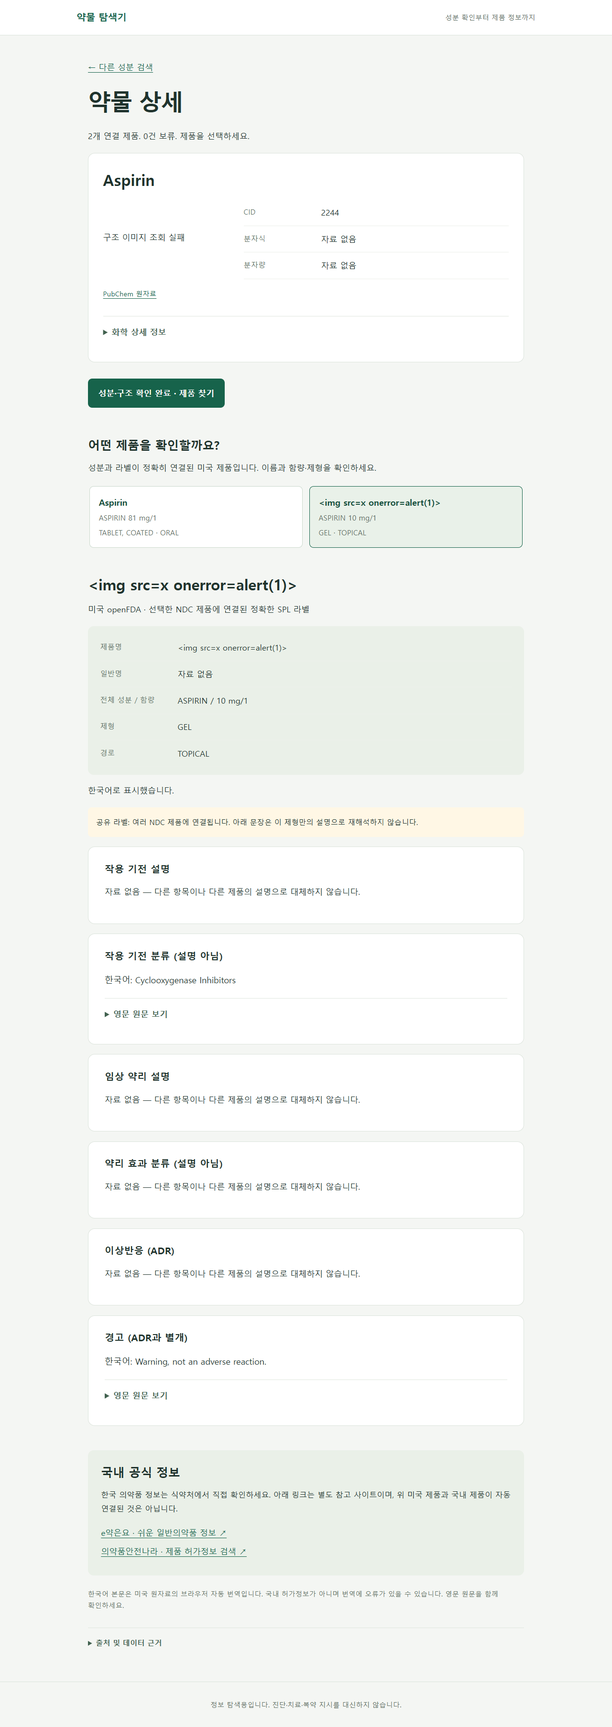
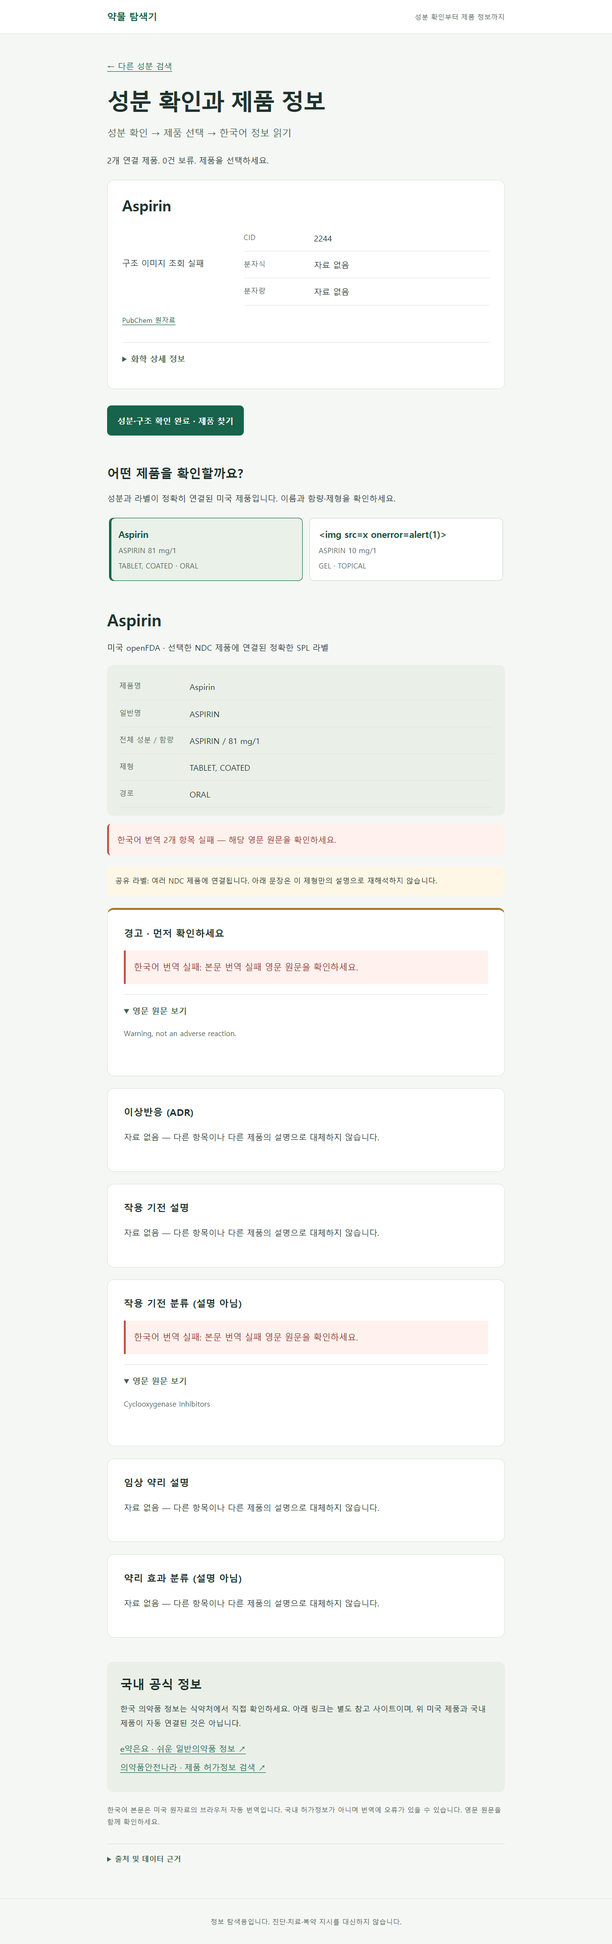
Improve Korean reading flow and automatic translation failure handling

diff --git a/assets/styles.css b/assets/styles.css
@@ -1,1 +1,9 @@
-:root{font-family:system-ui,-apple-system,"Segoe UI",sans-serif;color:#20332d;background:#f4f6f3;font-size:17px;line-height:1.8;font-synthesis:none}*{box-sizing:border-box}body{margin:0}header{display:flex;justify-content:space-between;align-items:center;gap:1rem;padding:1.1rem max(24px,calc((100vw - 960px)/2));border-bottom:1px solid #dbe3db;background:#fff}header span{font-size:.85rem;color:#5e6e65}.brand{font-weight:800;font-size:1.15rem;text-decoration:none}main{max-width:960px;margin:3rem auto;padding:0 24px}h1{font-size:clamp(2rem,4vw,2.8rem);line-height:1.4;letter-spacing:-.04em;margin:1.4rem 0}h2{font-size:1.45rem;line-height:1.5;margin:0 0 .8rem}h3{font-size:1.2rem;line-height:1.5;margin:0 0 1rem}p{margin:.7rem 0 1.2rem;word-break:keep-all;overflow-wrap:anywhere}a{color:#17634b;text-underline-offset:4px}button,.button{background:#17634b;color:#fff;border:1px solid transparent;border-radius:9px;padding:.85rem 1.2rem;cursor:pointer;font:inherit;font-weight:600;display:inline-block;text-decoration:none;margin:.5rem .5rem .5rem 0}button:hover,.button:hover{background:#104a38}button:disabled{opacity:.6;cursor:wait}input{font:inherit;padding:.95rem;border:1px solid #8da598;border-radius:9px;min-width:0;width:100%;background:#fff}label{display:block;font-weight:600;margin-bottom:.5rem}.input-row{display:flex;gap:.6rem;align-items:center}.input-row input{flex:1}.input-row button{white-space:nowrap}.card{background:#fff;border:1px solid #dce4dc;border-radius:14px;padding:1.8rem;margin:1.2rem 0}.field{display:grid;grid-template-columns:145px 1fr;border-bottom:1px solid #edf0eb;padding:.7rem 0;gap:1rem}dt{color:#647469;font-size:.9rem}dd{margin:0;overflow-wrap:anywhere;font-weight:500}img{object-fit:contain;background:#fff;max-width:100%}#compound>.card,#results>.card{display:grid;grid-template-columns:260px 1fr;gap:1rem 2rem;align-items:center}#compound>.card>h2,#results>.card>h2{grid-column:1/-1;font-size:1.9rem;margin:0}#compound>.card>details,#results>.card>.button{grid-column:1/-1}#compound>.card>img,#results>.card>img{width:240px;height:190px}#compound>.card>dl,#results>.card>dl{margin:0}#compound>.card>a,#results>.card>a:not(.button){font-size:.85rem}footer{border-top:1px solid #dbe3db;padding:2rem 24px;color:#637066;font-size:.85rem;text-align:center}.error{color:#8e3028;background:#fff1ed;padding:1rem;border-left:4px solid #bd5543}.notice{background:#fff7e5;padding:1rem;border-radius:8px;font-size:.9rem}.source-text,.translation-text{white-space:pre-wrap;overflow-wrap:anywhere;line-height:1.95}.translation-text{font-size:1.05rem;color:#20332d}.source-text{color:#58665e;font-size:.9rem}.product-section{margin:3rem 0}#products{display:grid;grid-template-columns:1fr 1fr;gap:.8rem;max-height:480px;overflow:auto;padding:3px}.product{display:flex;flex-direction:column;gap:.35rem;width:100%;text-align:left;background:white;color:#20332d;border:1px solid #cbd9cd;margin:0;padding:1.1rem;font-weight:400;font-size:.9rem;line-height:1.6}.product strong{font-size:1.05rem;color:#174e3b}.product span{display:block;color:#5e6e65}.product:hover,.product[aria-pressed=true]{background:#e9f1e9;border-color:#17634b}.product:focus-visible{outline-offset:-3px}#label{margin:3rem 0}#label>h2{font-size:1.8rem}#label>dl{background:#eaf0e8;border-radius:12px;padding:1rem 1.5rem}#label article{padding:1.8rem 2rem}details{border-top:1px solid #e0e7df;padding:1rem 0;margin-top:1rem}summary{cursor:pointer;font-weight:600;color:#41614f}details[open]>summary{margin-bottom:1rem}.reference-card{background:#eaf0e8;padding:1.6rem;border-radius:12px;margin:3rem 0 1.5rem}.reference-card p{font-size:.95rem}.reference-card a{display:block;margin:.5rem 0}.translation-note{font-size:.85rem;color:#657368;line-height:1.7}.evidence{margin-top:2rem;font-size:.9rem}.evidence pre{font-size:.8rem;white-space:pre-wrap;overflow-wrap:anywhere;background:#fff;padding:1rem}.evidence a{display:block;margin:.4rem 0}.evidence .field{grid-template-columns:170px 1fr}small{color:#617267}section{margin-bottom:1.5rem}[hidden]{display:none!important}:focus-visible{outline:3px solid #aa741f;outline-offset:3px}@media(max-width:650px){header span{display:none}main{margin:1.5rem auto;padding:0 18px}.input-row{display:block}#products{grid-template-columns:1fr;max-height:420px}#compound>.card,#results>.card{grid-template-columns:1fr;gap:.8rem}.field,.evidence .field{grid-template-columns:1fr;gap:.1rem}.card,#label article{padding:1.3rem}h1{font-size:2rem}#compound>.card>img,#results>.card>img{margin:auto}}
+:root{font-family:system-ui,-apple-system,"Segoe UI",sans-serif;color:#20332d;background:#f5f7f5;font-size:17px;line-height:1.85;font-synthesis:none}
+*{box-sizing:border-box}body{margin:0}main{max-width:880px;margin:3rem auto;padding:0 24px}header{display:flex;justify-content:space-between;align-items:center;gap:1rem;padding:1rem max(24px,calc((100vw - 832px)/2));background:#fff;border-bottom:1px solid #dbe3db}header span{font-size:.85rem;color:#52665a}.brand{font-size:1.15rem;font-weight:800;text-decoration:none}
+h1{font-size:clamp(2rem,4vw,2.8rem);line-height:1.35;letter-spacing:-.04em;margin:1.5rem 0 1rem}h2{font-size:1.5rem;line-height:1.5;margin:0 0 1rem}h3{font-size:1.2rem;line-height:1.5;margin:0 0 1.2rem}p{margin:.7rem 0 1.3rem;word-break:keep-all;overflow-wrap:anywhere}.intro{font-size:1.15rem;color:#42614f}a{color:#17634b;text-underline-offset:4px}section{margin-bottom:1.5rem}
+button,.button{display:inline-block;background:#17634b;color:#fff;border:1px solid transparent;border-radius:9px;padding:.85rem 1.2rem;cursor:pointer;font:inherit;font-weight:600;text-decoration:none;margin:.5rem .5rem .5rem 0}button:hover,.button:hover{background:#104a38}button:disabled{opacity:.6;cursor:wait}input{font:inherit;padding:.95rem;border:1px solid #8da598;border-radius:9px;min-width:0;width:100%;background:#fff}label{display:block;font-weight:600;margin-bottom:.5rem}.input-row{display:flex;gap:.6rem;align-items:center}.input-row input{flex:1}.input-row button{white-space:nowrap}
+.card{background:#fff;border:1px solid #dce4dc;border-radius:14px;padding:1.8rem;margin:1.5rem 0}.field{display:grid;grid-template-columns:130px minmax(0,1fr);border-bottom:1px solid #e0e7df;padding:.7rem 0;gap:1rem}dt{color:#52665a;font-size:.9rem}dd{margin:0;overflow-wrap:anywhere;font-weight:500}img{object-fit:contain;background:#fff;max-width:100%}#compound>.card,#results>.card{display:grid;grid-template-columns:220px minmax(0,1fr);gap:1rem 2rem;align-items:center}#compound>.card>h2,#results>.card>h2{grid-column:1/-1;font-size:1.8rem;margin:0;overflow-wrap:anywhere}#compound>.card>details,#results>.card>.button{grid-column:1/-1}#compound>.card>img,#results>.card>img{width:220px;height:170px}#compound>.card>dl,#results>.card>dl{margin:0}#compound>.card>a,#results>.card>a:not(.button){font-size:.85rem}
+.product-section{margin:3rem 0}#products{display:grid;grid-template-columns:1fr 1fr;gap:.8rem;max-height:360px;overflow:auto;padding:4px;overscroll-behavior:contain}.product{display:flex;flex-direction:column;gap:.4rem;width:100%;text-align:left;background:#fff;color:#20332d;border:1px solid #cbd9cd;margin:0;padding:1.1rem;font-weight:400;font-size:.9rem;line-height:1.6;overflow-wrap:anywhere}.product strong{font-size:1.1rem;color:#174e3b}.product span{display:block;color:#52665a}.product:hover,.product[aria-pressed=true]{background:#e9f1e9;border-color:#17634b}.product[aria-pressed=true]{box-shadow:inset 4px 0 #17634b}.product:focus-visible{outline-offset:-3px}
+#label{margin:3rem 0;scroll-margin-top:1rem}#label:empty{display:none}#label>h2{font-size:2rem;overflow-wrap:anywhere}#label>dl{background:#eaf0e8;border-radius:12px;padding:1rem 1.5rem}#label article{padding:2rem;max-width:100%}#label article:first-of-type{border-top:4px solid #aa741f}.translation-state{padding:.8rem 1rem;background:#eaf0e8;border-radius:8px}.source-text,.translation-text{white-space:pre-wrap;overflow-wrap:anywhere;line-height:2}.translation-text{font-size:1.05rem}.source-text{color:#52665a;font-size:.9rem}.error{color:#8e3028;background:#fff1ed;padding:1rem;border-left:4px solid #bd5543}.notice{background:#fff7e5;padding:1rem;border-radius:8px;font-size:.9rem}
+details{border-top:1px solid #dbe3db;padding:1rem 0;margin-top:1rem}summary{cursor:pointer;font-weight:600;color:#41614f}details[open]>summary{margin-bottom:1rem}.reference-card{background:#eaf0e8;padding:1.6rem;border-radius:12px;margin:3rem 0 1.5rem}.reference-card p{font-size:.95rem}.reference-card a{display:block;margin:.5rem 0}.translation-note{font-size:.85rem;color:#52665a;line-height:1.7}.evidence{margin-top:2rem;font-size:.9rem}.evidence pre{font-size:.8rem;white-space:pre-wrap;overflow-wrap:anywhere;background:#fff;padding:1rem}.evidence a{display:block;margin:.4rem 0}.evidence .field{grid-template-columns:170px minmax(0,1fr)}small{color:#52665a}footer{border-top:1px solid #dbe3db;padding:2rem 24px;color:#52665a;font-size:.85rem;text-align:center}[hidden]{display:none!important}:focus-visible{outline:3px solid #aa741f;outline-offset:3px}
+@media(max-width:650px){header span{display:none}main{margin:1.5rem auto;padding:0 18px}.input-row{display:block}#products{grid-template-columns:1fr;max-height:320px}#compound>.card,#results>.card{grid-template-columns:minmax(0,1fr);gap:.8rem}.field,.evidence .field{grid-template-columns:minmax(0,1fr);gap:.1rem}.card,#label article{padding:1.3rem}h1,#label>h2{font-size:1.9rem}#compound>.card>img,#results>.card>img{margin:auto}.reference-card{padding:1.3rem}}

diff --git a/tests/auto-browser.js b/tests/auto-browser.js
@@ -5,15 +5,89 @@ import {server} from '../tools/serve.js';
 await new Promise(r=>server.listening?r():server.once('listening',r));
 const fixture=JSON.parse(await readFile('tests/fixtures/labels.json'));
 const unii=JSON.parse(await readFile('docs/evidence/api-browser.json')).results.find(x=>x.url.includes('pug_view')).body;
-const b=await chromium.launch({channel:'chrome'});const p=await b.newPage();const report={schemaVersion:1,kind:'browser-automation',steps:[]};
-await p.addInitScript(()=>{window.modelCreates=0;window.activation=[];window.failModel=false;window.Translator={create:()=>{window.modelCreates++;window.activation.push(navigator.userActivation.isActive);if(window.failModel)return Promise.reject(new Error('모델 다운로드 실패'));return Promise.resolve({translate:async text=>{await new Promise(r=>setTimeout(r,180));return '한국어: '+text;}});}};});
+const b=await chromium.launch({channel:'chrome'});
+const p=await b.newPage();
+const report={schemaVersion:1,kind:'browser-automation',observedAt:new Date().toISOString(),steps:[]};
+await p.addInitScript(()=>{
+ window.modelCreates=0;window.activation=[];window.failModel=false;window.failText=false;window.calls=[];
+ window.Translator={create:()=>{
+  window.modelCreates++;window.activation.push(navigator.userActivation.isActive);
+  if(window.failModel)return Promise.reject(new Error('모델 다운로드 실패'));
+  return new Promise(resolve=>setTimeout(()=>resolve({translate:async text=>{
+   window.calls.push(text);
+   const fail=window.failText;
+   await new Promise(r=>setTimeout(r,180));
+   if(fail)throw new Error('본문 번역 실패');
+   return '한국어: '+text;
+  }}),300));
+ }};
+});
 await p.route('https://pubchem.ncbi.nlm.nih.gov/**',r=>r.fulfill(r.request().url().includes('pug_view')?{json:unii}:r.request().url().endsWith('/PNG')?{status:404,body:''}:{json:{PropertyTable:{Properties:[{CID:2244,Title:'Aspirin'}]}}}));
-await p.route('https://api.fda.gov/**',r=>{const u=new URL(r.request().url());const records=u.pathname.includes('label')?fixture.labels:fixture.ndcs.filter(n=>u.searchParams.get('search').includes(n.product_ndc));return r.fulfill({json:{meta:{results:{total:records.length}},results:records}});});
-async function open(){await p.goto('http://127.0.0.1:4173/detail.html?cid=2244');await p.locator('#confirm-compound').waitFor();await p.locator('#confirm-compound').click();await p.locator('#products button').first().waitFor();}
+await p.route('https://api.fda.gov/**',r=>{
+ const u=new URL(r.request().url());
+ const records=u.pathname.includes('label')?fixture.labels:fixture.ndcs.filter(n=>u.searchParams.get('search').includes(n.product_ndc));
+ return r.fulfill({json:{meta:{results:{total:records.length}},results:records}});
+});
+async function open(){
+ await p.goto('http://127.0.0.1:4173/detail.html?cid=2244');
+ await p.locator('#confirm-compound').waitFor();await p.locator('#confirm-compound').click();
+ await p.locator('#products button').first().waitFor();
+}
+const completed=()=>p.waitForFunction(()=>document.querySelector('.translation-state').textContent==='한국어로 표시했습니다.');
 try{
- await open();await p.locator('#products button').first().click();await p.locator('#products button').nth(1).click();await p.waitForFunction(()=>document.querySelector('.translation-state').textContent==='한국어로 표시했습니다.');
- assert.equal(await p.evaluate(()=>window.modelCreates),1);assert.deepEqual(await p.evaluate(()=>window.activation),[true]);assert.equal(await p.locator('#label button').count(),0);assert.match(await p.locator('#label').innerText(),/GEL/);assert.equal(await p.locator('#label details[open]').count(),0);assert.equal(await p.locator('#data-evidence').getAttribute('open'),null);assert(!await p.locator('#products').innerText().then(x=>x.includes(fixture.labels[0].id)));report.steps.push({action:'Product gesture automatically starts shared model with activation; rapid switch keeps B; originals and provenance collapsed',verdict:'passed'});
- await open();await p.evaluate(()=>window.failModel=true);await p.locator('#products button').first().click();await p.waitForFunction(()=>document.querySelector('.translation-state').classList.contains('error'));assert.match(await p.locator('.translation-state').innerText(),/다운로드 실패/);await p.locator('#label details').first().locator('summary').click();assert(await p.locator('#label .source-text').first().isVisible());report.steps.push({action:'Automatic download failure explicit with usable original text',verdict:'passed'});
- await p.evaluate(()=>window.failModel=false);await p.locator('#products button').nth(1).click();await p.waitForFunction(()=>document.querySelector('.translation-state').textContent==='한국어로 표시했습니다.');assert.equal(await p.evaluate(()=>window.modelCreates),2);report.steps.push({action:'Subsequent product gesture retries rejected model successfully',verdict:'passed'});
+ await open();
+ await p.locator('#products button').first().click();
+ await p.locator('#products button').nth(1).click();
+ await completed();
+ assert.equal(await p.evaluate(()=>window.modelCreates),1);
+ assert.deepEqual(await p.evaluate(()=>window.activation),[true]);
+ assert.equal(await p.locator('#label button').count(),0);
+ assert.match(await p.locator('#label').innerText(),/GEL/);
+ assert.equal(await p.locator('#products [aria-pressed=true]').count(),1);
+ assert.equal(await p.locator('#products button').nth(1).getAttribute('aria-pressed'),'true');
+ assert.equal(await p.locator('#label').getAttribute('aria-busy'),'false');
+ assert.equal(await p.locator('#label details[open]').count(),0);
+ assert.equal(await p.locator('#data-evidence').getAttribute('open'),null);
+ assert.equal(await p.locator('main > :last-child').getAttribute('id'),'data-evidence');
+ assert.match(await p.locator('#label article h3').first().innerText(),/경고/);
+ assert(!await p.locator('#products').innerText().then(x=>x.includes(fixture.labels[0].id)));
+ assert.equal(await p.locator('#label .translation-text').count(),await p.evaluate(()=>window.calls.length));
+ report.steps.push({action:'Pending model shared during rapid switch; activation true; all present sections translate; selected state and bottom evidence',verdict:'passed'});
+ // Switch after translation has started, not only while model creation is pending.
+ await open();await p.locator('#products button').first().click();
+ await p.waitForFunction(()=>window.calls.length>0);
+ await p.locator('#products button').nth(1).click();await completed();
+ assert.match(await p.locator('#label').innerText(),/GEL/);
+ assert.equal(await p.locator('#label .translation-text.error').count(),0);
+ report.steps.push({action:'In-flight old translation cannot replace newly selected product',verdict:'passed'});
+ await open();await p.evaluate(()=>window.failText=true);
+ await p.locator('#products button').first().click();
+ await p.waitForFunction(()=>window.calls.length>0);
+ await p.evaluate(()=>window.failText=false);
+ await p.locator('#products button').nth(1).click();await completed();
+ assert.equal(await p.locator('#label .error').count(),0);
+ assert.equal(await p.locator('#label details[open]').count(),0);
+ assert.match(await p.locator('#label').innerText(),/GEL/);
+ report.steps.push({action:'Stale rejected translation cannot mark new product failed or expand its originals',verdict:'passed'});
+ await open();await p.evaluate(()=>window.failModel=true);
+ await p.locator('#products button').first().click();
+ await p.waitForFunction(()=>document.querySelector('.translation-state').classList.contains('error'));
+ assert.match(await p.locator('.translation-state').innerText(),/다운로드 실패/);
+ assert(await p.locator('#label .source-text').first().isVisible());
+ assert.equal(await p.locator('#label').getAttribute('aria-busy'),'false');
+ report.steps.push({action:'Download failure explicitly shown and original automatically expanded',verdict:'passed'});
+ await p.evaluate(()=>window.failModel=false);
+ await p.locator('#products button').nth(1).click();await completed();
+ assert.equal(await p.evaluate(()=>window.modelCreates),2);
+ report.steps.push({action:'Next product gesture retries rejected model',verdict:'passed'});
+ await open();await p.evaluate(()=>window.failText=true);
+ await p.locator('#products button').first().click();
+ await p.waitForFunction(()=>document.querySelector('#label').getAttribute('aria-busy')==='false');
+ assert.match(await p.locator('.translation-state').innerText(),/항목 실패/);
+ assert.equal(await p.locator('#label .translation-text.error').count(),await p.locator('#label .source-text').count());
+ assert(await p.locator('#label .source-text').first().isVisible());
+ report.steps.push({action:'Per-section translation failures never claim success and expose original',verdict:'passed'});
  await p.screenshot({path:'docs/evidence/auto-browser.png',fullPage:true});report.status='passed';
-}catch(e){report.status='failed';report.error=e.stack;process.exitCode=1;}await writeFile('docs/evidence/auto-browser.json',JSON.stringify(report,null,2));console.log(report);await b.close();server.close();
+}catch(e){report.status='failed';report.error=e.stack;process.exitCode=1;}
+await writeFile('docs/evidence/auto-browser.json',JSON.stringify(report,null,2));console.log(report);
+await b.close();server.close();

diff --git a/js/detail-page.js b/js/detail-page.js
@@ -10,12 +10,12 @@ let compound, evidence, skip = 0;
 const products = new Map();
 let labels = [], ndcs = [], lookupHeld = [];
 const sections = [
+  ['경고 · 먼저 확인하세요','warnings'],
+  ['이상반응 (ADR)','adverse_reactions'],
   ['작용 기전 설명','mechanism_of_action'],
   ['작용 기전 분류 (설명 아님)','openfda.pharm_class_moa'],
   ['임상 약리 설명','clinical_pharmacology'],
-  ['약리 효과 분류 (설명 아님)','openfda.pharm_class_pe'],
-  ['이상반응 (ADR)','adverse_reactions'],
-  ['경고 (ADR과 별개)','warnings']
+  ['약리 효과 분류 (설명 아님)','openfda.pharm_class_pe']
 ];
 function source(parent,title,url) {if(url) parent.append(link(title,url));}
 function select(product) {
@@ -27,6 +27,8 @@ function select(product) {
   const {ndc,label,selectionKey} = product;
   const current = () => request.current() && root.dataset.selectionKey===selectionKey;
   root.dataset.selectionKey = selectionKey;
+  for(const button of $('#products').children) button.setAttribute('aria-pressed',String(button.dataset.selectionKey===selectionKey));
+  root.setAttribute('aria-busy','true');
   root.append(el('h2',ndc.brand_name || ndc.generic_name || '제품명 자료 없음'),el('p','미국 openFDA · 선택한 NDC 제품에 연결된 정확한 SPL 라벨'));
   const details = el('dl');
   for(const [title,value] of [['제품명',ndc.brand_name],['일반명',ndc.generic_name],['전체 성분 / 함량',ndc.active_ingredients?.map(x=>`${x.name ?? '자료 없음'} / ${x.strength ?? '자료 없음'}`)],['제형',ndc.dosage_form],['경로',ndc.route]]) field(details,title,value);
@@ -47,8 +49,11 @@ function select(product) {
     const translated = el('p','한국어 자동 번역 대기 중…','translation-text');
     const original = el('details');original.append(el('summary','영문 원문 보기'),el('p',text,'source-text'));
     section.append(translated,original);root.append(section);
-    pending.push({title,text,translated});
+    pending.push({title,text,translated,original});
   }
+  root.tabIndex = -1;
+  root.focus({preventScroll:true});
+  root.scrollIntoView({block:'start'});
   void (async()=>{
     try {
       await prepared;
@@ -56,22 +61,30 @@ function select(product) {
     } catch(error) {
       if(current()) {
         status(state,`한국어 번역 실패: ${error.message} 영문 원문을 펼쳐 확인하세요.`,true);
-        for(const item of pending)status(item.translated,'한국어 번역을 사용할 수 없습니다. 아래 영문 원문을 확인하세요.',true);
+        for(const item of pending) {
+          status(item.translated,'한국어 번역을 사용할 수 없습니다. 영문 원문을 확인하세요.',true);
+          item.original.open=true;
+        }
+        root.setAttribute('aria-busy','false');
       }
       return;
     }
     let failures = 0;
-    for(const {title,text,translated} of pending) {
+    for(const {title,text,translated,original} of pending) {
       if(!current())return;
       try {
         const result=await translate(text,'en','ko',message=>{if(current())status(state,`${title}: ${message}`);});
         if(current())status(translated,result);
       } catch(error) {
         failures++;
-        if(current())status(translated,`한국어 번역 실패: ${error.message} 아래 영문 원문을 확인하세요.`,true);
+        if(current()) {
+          status(translated,`한국어 번역 실패: ${error.message} 영문 원문을 확인하세요.`,true);
+          original.open=true;
+        }
       }
     }
     if(current())status(state,failures?`한국어 번역 ${failures}개 항목 실패 — 해당 영문 원문을 확인하세요.`:pending.length?'한국어로 표시했습니다.':'번역할 원문 자료가 없습니다.',failures>0);
+    if(current())root.setAttribute('aria-busy','false');
   })();
 }
 async function loadProducts() {
@@ -93,6 +106,8 @@ async function loadProducts() {
       products.set(product.selectionKey,product);
       const n=product.ndc;
       const button=el('button',undefined,'product');
+      button.dataset.selectionKey=product.selectionKey;
+      button.setAttribute('aria-pressed',String(product.selectionKey===activeKey));
       button.append(el('strong',n.brand_name || n.generic_name || '제품명 자료 없음','product-name'),el('span',n.active_ingredients?.map(x=>`${x.name || '성분 자료 없음'} ${x.strength || '함량 자료 없음'}`).join(' + ') || '성분 자료 없음','product-ingredients'),el('span',`${n.dosage_form || '제형 자료 없음'} · ${n.route?.join(', ') || '경로 자료 없음'}`,'product-meta'));
       button.addEventListener('click',()=>select(product));$('#products').append(button);
     }

diff --git a/tools/pages-probe.js b/tools/pages-probe.js
@@ -3,17 +3,16 @@ import assert from 'node:assert/strict';
 import {writeFile} from 'node:fs/promises';
 const base='https://seeum0121-debug.github.io/pubchem-drug-explorer/';
 const browser=await chromium.launch({channel:'chrome',headless:true,ignoreDefaultArgs:['--disable-component-update','--disable-background-networking']});
-const page=await browser.newPage();
+const page=await browser.newPage({viewport:{width:1280,height:900}});
 const report={schemaVersion:1,kind:'browser-automation',browser:browser.version(),observedAt:new Date().toISOString(),base,steps:[],errors:[]};
 page.on('pageerror',e=>report.errors.push(e.message));
 try{
  const response=await page.goto(base);assert.equal(response.status(),200);
- for(const [name,cid] of [['아스피린',2244],['아세트아미노펜',1983],['이부프로펜',3672]]){
-  await page.locator('#query').fill(name);await page.locator('#search-form button').click();await page.locator('#translation').waitFor({timeout:180000});
-  const candidate=await page.locator('#candidate').inputValue();await page.locator('#confirm-translation').click();await page.locator('#results .button').first().waitFor({timeout:60000});
+ for(const [name,cid] of [['aspirin',2244],['acetaminophen',1983],['ibuprofen',3672]]){
+  await page.locator('#query').fill(name);await page.locator('#search-form button').click();await page.locator('#results .button').first().waitFor({timeout:60000});
   await page.waitForFunction(()=>document.querySelector('#results img')?.naturalWidth>0,{},{timeout:60000});
   assert.match(await page.locator('#results').innerText(),new RegExp(String(cid)));
-  report.steps.push({action:'Native Korean candidate and live PubChem confirmation',input:name,cid,candidate,result:await page.locator('#results').innerText(),verdict:'passed'});
+  report.steps.push({action:'English search and live PubChem confirmation (Korean search tested separately)',input:name,cid,result:await page.locator('#results').innerText(),verdict:'passed'});
   await page.locator('#results .button').first().click();await page.locator('#confirm-compound').waitFor({timeout:60000});assert(page.url().endsWith(`cid=${cid}`));
   await page.reload();await page.locator('#confirm-compound').waitFor({timeout:60000});assert.equal(await page.locator('#products button').count(),0);
   report.steps.push({action:'Detailed chemical fields and fresh explicit confirmation after reload',input:name,cid,result:await page.locator('#compound').innerText(),verdict:'passed'});
@@ -21,6 +20,12 @@ try{
   await page.locator('#confirm-compound').click();await page.locator('#products button').first().waitFor({timeout:180000});await page.locator('#products button').first().click();
   const selectionKey=await page.locator('#label').getAttribute('data-selection-key');assert.equal(JSON.parse(selectionKey).length,3);
   await page.waitForFunction(()=>document.querySelector('.translation-state')?.textContent==='한국어로 표시했습니다.',{},{timeout:180000});
+  assert.match(await page.locator('#label article h3').first().innerText(),/경고/);
+  assert.equal(await page.locator('#label').getAttribute('aria-busy'),'false');
+  assert.equal(await page.locator('#products [aria-pressed=true]').count(),1);
+  assert.equal(await page.locator('main > :last-child').getAttribute('id'),'data-evidence');
+  assert.equal(await page.locator('#data-evidence').getAttribute('open'),null);
+  assert.match(await page.locator('#label .translation-text').first().innerText(),/[가-힣]/);
   report.steps.push({action:'Exact product/form/route/label plus native Korean label translation on HTTPS Pages',input:name,cid,selectionKey,result:await page.locator('#label').innerText(),identity:await page.locator('#selected-evidence').textContent(),verdict:'passed'});
   await page.screenshot({path:`docs/evidence/pages-${cid}.png`,fullPage:true});
   if(cid===2244)await page.screenshot({path:'docs/evidence/pages.png',fullPage:true});

diff --git a/tools/translation-probe.js b/tools/translation-probe.js
@@ -1,9 +1,10 @@
 import {chromium} from '@playwright/test';
+import assert from 'node:assert/strict';
 import {writeFile} from 'node:fs/promises';
 import {server} from './serve.js';
 await new Promise(r=>server.listening?r():server.once('listening',r));
 const browser=await chromium.launch({channel:'chrome',headless:true,ignoreDefaultArgs:['--disable-component-update','--disable-background-networking']});
-const page=await browser.newPage();
+const page=await browser.newPage({viewport:{width:1280,height:900}});
 const report={browser:browser.version(),observedAt:new Date().toISOString(),mode:'isolated headless Chrome; component updates/background networking enabled',results:[]};
 try {
  await page.goto('http://127.0.0.1:4173');
@@ -11,9 +12,18 @@ try {
   await page.locator('#query').fill(name);await page.locator('#search-form button').click();
   await page.waitForFunction(()=>!document.querySelector('#translation').hidden || document.querySelector('#status').classList.contains('error'),{},{timeout:240000});
   const row={input:name,status:await page.locator('#status').innerText(),candidate:await page.locator('#candidate').inputValue()};
+  if(await page.locator('#translation').isHidden()){report.results.push({...row,error:row.status});continue;}
   await page.locator('#confirm-translation').click(); await page.locator('#results .button').first().waitFor({timeout:60000});row.pubchem=await page.locator('#results').innerText();report.results.push(row);
  }
  await page.goto('http://127.0.0.1:4173/detail.html?cid=2244');await page.locator('#confirm-compound').waitFor({timeout:60000});await page.locator('#confirm-compound').click();await page.locator('#products button').first().waitFor({timeout:180000});await page.locator('#products button').first().click();await page.waitForFunction(()=>document.querySelector('.translation-state')?.textContent==='한국어로 표시했습니다.',{},{timeout:240000});report.englishToKorean={selectionKey:await page.locator('#label').getAttribute('data-selection-key'),source:await page.locator('#label .source-text').first().textContent(),translated:await page.locator('#label .translation-text').first().innerText()};
-}catch(error){report.error=error.message;report.lastStatus=await page.locator('#status').innerText().catch(()=> 'browser closed');}
+ assert.match(report.englishToKorean.translated,/[가-힣]/);
+ assert.notEqual(report.englishToKorean.translated,report.englishToKorean.source);
+ await page.screenshot({path:'docs/evidence/readability-desktop.png',fullPage:true});
+ await page.setViewportSize({width:390,height:844});
+ assert(await page.evaluate(()=>document.documentElement.scrollWidth<=innerWidth));
+ await page.screenshot({path:'docs/evidence/readability-mobile.png',fullPage:true});
+ report.status=report.results.some(row=>row.error)?'failed':'passed';
+ if(report.status==='failed')process.exitCode=1;
+}catch(error){report.status='failed';process.exitCode=1;report.error=error.message;report.lastStatus=await page.locator('#status').innerText().catch(()=> 'browser closed');}
 await page.screenshot({path:'docs/evidence/translation-browser.png',fullPage:true}).catch(()=>{});
 await writeFile('docs/evidence/translation-browser.json',JSON.stringify(report,null,2));console.log(report);await browser.close();server.close();

diff --git a/index.html b/index.html
@@ -1,7 +1,7 @@
 <!doctype html>
 <html lang="ko"><head><meta charset="utf-8"><meta name="viewport" content="width=device-width, initial-scale=1"><title>약물 탐색기 · PubChem</title><link rel="stylesheet" href="./assets/styles.css"></head>
 <body><header><a href="./index.html" class="brand">약물 탐색기</a><span>성분 확인부터 제품 정보까지</span></header><main>
-<h1>궁금한 약의 성분을<br>찾아보세요</h1><p>성분과 구조를 확인하고, 제품별 정보를 한국어로 읽어보세요.</p>
+<h1>궁금한 약의 성분을<br>찾아보세요</h1><p class="intro">성분과 구조를 확인하고, 제품별 정보를 한국어로 읽어보세요.</p><p>미국 제품 자료를 자동 번역합니다. 국내 정보는 <a href="https://nedrug.mfds.go.kr/searchEasyDrug" target="_blank" rel="noopener noreferrer">식약처 e약은요</a>에서 별도로 확인하세요.</p>
 <form id="search-form"><label for="query">성분명</label><div class="input-row"><input id="query" name="query" required maxlength="200" placeholder="예: 아스피린 / aspirin" autocomplete="off"><button>후보 검색</button></div></form>
 <p id="status" role="status" aria-live="polite"></p>
 <section id="translation" hidden class="card"><h2>검색할 성분을 확인하세요</h2><p id="original"></p><label for="candidate">영문 후보 — 성분명이 맞는지 확인하고 수정하세요.</label><input id="candidate" maxlength="200"><button id="confirm-translation" type="button">이 성분으로 검색</button></section>

diff --git a/detail.html b/detail.html
@@ -1,7 +1,7 @@
 <!doctype html>
 <html lang="ko"><head><meta charset="utf-8"><meta name="viewport" content="width=device-width,initial-scale=1"><title>약물 상세 · 약물 탐색기</title><link rel="stylesheet" href="./assets/styles.css"></head>
 <body><header><a class="brand" href="./index.html">약물 탐색기</a><span>성분 확인부터 제품 정보까지</span></header><main>
-<a href="./index.html">← 다른 성분 검색</a><h1>약물 상세</h1><p id="status" role="status" aria-live="polite"></p>
+<a href="./index.html">← 다른 성분 검색</a><h1>성분 확인과 제품 정보</h1><p class="intro">성분 확인 → 제품 선택 → 한국어 정보 읽기</p><p id="status" role="status" aria-live="polite"></p>
 <section id="compound" aria-label="성분과 주요 물성"></section>
 <button id="confirm-compound" hidden>성분·구조 확인 완료 · 제품 찾기</button>
 <section class="product-section" aria-label="제품 선택"><h2>어떤 제품을 확인할까요?</h2><p>성분과 라벨이 정확히 연결된 미국 제품입니다. 이름과 함량·제형을 확인하세요.</p><div id="products"></div><button id="more" hidden>제품 더 보기 · 다음 20개 라벨</button></section>

diff --git a/tests/translator.test.js b/tests/translator.test.js
@@ -1,6 +1,11 @@
 import test from 'node:test';
 import assert from 'node:assert/strict';
 const fresh=()=>import(`../js/translator.js?test=${Math.random()}`);
+test('empty output fails explicitly and is not cached',async()=>{
+ const original=globalThis.Translator;let calls=0;
+ globalThis.Translator={create:async()=>({translate:async()=>++calls===1?'  ':'실제 결과'})};
+ try{const m=await fresh();await assert.rejects(m.translate('text','en','ko'),/비어/);assert.equal(await m.translate('text','en','ko'),'실제 결과');}finally{globalThis.Translator=original;}
+});
 test('create starts synchronously; same pair shares pending promise; translations are sequential and cached',async()=>{
  const original=globalThis.Translator;let creates=0,release,active=0,max=0,calls=0;
  globalThis.Translator={create:()=>{creates++;return new Promise(r=>release=()=>r({translate:async text=>{calls++;active++;max=Math.max(max,active);await new Promise(r=>setTimeout(r,10));active--;return '한국어 '+text;}}));}};

diff --git a/js/translator.js b/js/translator.js
@@ -49,6 +49,7 @@ export async function translate(text, sourceLanguage, targetLanguage, onState = 
     if (cache.has(key)) { onState('준비 완료 (세션 캐시)'); return cache.get(key); }
     onState('번역 중');
     const result = await model.translate(text);
+    if (typeof result !== 'string' || !result.trim()) throw new Error('번역 결과가 비어 있습니다.');
     cache.set(key, result);
     onState('준비 완료');
     return result;

diff --git a/README.md b/README.md
@@ -13,18 +13,30 @@
 - 한국어를 먼저 읽고, 필요한 항목의 **영문 원문 보기**를 펼칠 수 있습니다.
 - 제품 목록은 이름·성분/함량·제형/경로에 집중합니다. UUID·NDC/SPL·CID–UNII 원시 근거와 연결 보류 사유는 마지막 **출처 및 데이터 근거**에 접혀 있습니다. 식별 검증은 그대로 유지합니다.
 - 모델 초기화 promise를 언어쌍별로 재사용하고 번역을 순차 실행합니다. 제품을 바꾸면 이전 번역이 새 제품을 덮지 않습니다.
+- 선택한 제품으로 읽기 위치와 키보드 초점을 옮기고, 선택 카드를 강조합니다. 경고·이상반응을 먼저 배치했으며 본문 폭은 880px로 제한했습니다.
+- 다운로드 또는 항목별 번역 실패 시 오류와 영문 원문을 자동으로 펼칩니다. 빈 번역 결과를 성공으로 표시하거나 캐시하지 않습니다.
 
-![한국어 중심 상세 화면 — 실제 Chrome](docs/evidence/translation-browser.png)
+### 실제 실행 화면
+
+실제 PubChem/openFDA와 Chrome 번역 모델로 촬영한 화면입니다. 모의 번역 화면이 아닙니다.
+
+![데스크톱 1280px — 경고부터 읽는 상세 화면](docs/evidence/readability-desktop.png)
+
+<details><summary>좁은 화면 390px 보기</summary>
+
+![좁은 화면 — 가로 넘침 없이 읽기](docs/evidence/readability-mobile.png)
+
+</details>
 
 ## 한국어 원자료 재조사
 
-2026-11-17 공식 페이지를 제한적으로 재확인했습니다. **한국어로 번역된 미국 자료와 한국 원자료는 다릅니다.**
+2026-11-18 (UTC+09:00) 아래 공식 URL 3개를 다시 조회했습니다. **한국어로 번역된 미국 자료와 한국 원자료는 다릅니다.**
 
 | 후보 | 확인된 범위와 접근 조건 | 현재 적용 |
 | --- | --- | --- |
 | [식약처 e약은요](https://nedrug.mfds.go.kr/searchEasyDrug) | 비로그인 공개 검색에 4,730건 및 엑셀다운로드 표시. 일반소비자를 위한 일반의약품 개요이며 모든 허가사항·모든 의약품을 담지 않음 | 앱의 ‘국내 공식 정보’에 외부 참고 링크 |
 | [공공데이터포털 공식 e약은요 API](https://www.data.go.kr/data/15075057/openapi.do) | 한국어 효능·사용법·주의·상호작용·부작용·보관법, 무료이나 **ServiceKey 필수** | 새 가입/API 키 없음 조건 때문에 자동 통합하지 않음 |
-| [식약처 품목 목록 자료실](https://nedrug.mfds.go.kr/bbs/42/10) | 품목 목록 XLSX 후보. 상세 임상 본문 포함 여부·재사용 조건·브라우저 직접 취득 가능성 미확인 | 상세 데이터로 사용하지 않음 |
+| [식약처 품목 목록 자료실](https://nedrug.mfds.go.kr/bbs/42/10) | e약은요 안내에서 연결하는 현행화 품목 자료실. 이번 읽기 응답에는 ‘목록’만 노출되어 XLSX 본문을 검증하지 못함. 품목 목록을 상세 임상 본문으로 간주하지 않음 | 상세 데이터로 사용하지 않음 |
 
 이번 조사에서 **키 없이 재사용·자동 취득·정확한 성분/제품 대응까지 검증된 한국어 데이터는 확보하지 못했습니다.** 공개 웹 열람 가능성을 API의 ‘이용허락범위 제한 없음’과 동일시하지 않았습니다. 국내 허가정보는 [의약품안전나라 검색](https://nedrug.mfds.go.kr/searchDrug)에서 별도로 확인해야 합니다. 특정 국내 제품을 현재 선택 성분과 추정 연결하지 않았고, 기존 작동 미국 자료도 삭제하지 않았습니다.
 
@@ -38,7 +50,7 @@ Node.js 24 이상에서 `npm ci`, `npm run serve` 실행 후 http://127.0.0.1:41
 2. PubChem CID·성분명·구조를 확인하고 상세 페이지로 이동합니다.
 3. 상세 페이지에서 다시 성분을 확인하면 출처 있는 UNII로 미국 라벨을 20개씩 조회합니다. 추가 조회는 사용자 버튼으로만 실행됩니다.
 4. 정확한 NDC/SPL 버전/성분 근거가 연결된 제품을 선택합니다. 전체 성분·함량·제형·경로는 NDC 레코드에서, 약리·이상반응·경고는 해당 라벨에서 가져옵니다.
-5. 제품 클릭에서 모델 준비와 한국어 번역이 자동 시작됩니다. 기전 분류는 기전 설명과 다르며, 경고는 이상반응을 대신하지 않습니다. 번역 실패 시 접힌 영문 원문을 펼쳐 확인하세요.
+5. 제품 클릭에서 모델 준비와 한국어 번역이 자동 시작되고 해당 제품으로 화면이 이동합니다. 경고·이상반응부터 읽으세요. 기전 분류는 기전 설명과 다르며, 경고는 이상반응을 대신하지 않습니다. 번역 실패 시 영문 원문이 자동으로 펼쳐집니다.
 
 ## 안전한 데이터 해석
 
@@ -47,10 +59,13 @@ Node.js 24 이상에서 `npm ci`, `npm run serve` 실행 후 http://127.0.0.1:41
 - 제형·경로·ADR 누락은 자료 없음으로 표시합니다. 다른 제품 라벨이나 경고를 끌어와 채우지 않습니다.
 - 각 필드의 원본 경로·제공자·조회 시각을 출처 상세에서 확인할 수 있습니다. 라벨 effective_time은 조회 시각과 다른 원자료 날짜입니다.
 - 번역 미지원·다운로드 실패 시 영어 검색과 영문 원문은 계속 사용할 수 있습니다. 번역을 정확한 의학 해석으로 간주하지 마세요.
+- 실제 자동 번역에서도 문장 누락이나 금지·조건의 의미 왜곡이 관찰되었습니다. 번역문으로 복약을 결정하지 말고 원문 및 국내 공식 허가정보를 확인하세요.
 - 모든 API 요청은 직렬, 기본 1초 간격, 20초 제한입니다. 429/일시적 5xx만 최대 두 번 재시도하며 장기 Retry-After는 중단 안내합니다. 세션 캐시와 취소·세대 검사를 적용합니다.
 - API 키·백엔드·회원가입·유료 서비스·고정 한글 약물 사전이 없습니다.
 
 ## 검증
+
+이번 실행: `npm test` **30/30**, 격리 Chrome browser **8**, auto-browser **6**, image-browser **5** 시나리오 통과. 실제 aspirin 제품 클릭의 **en→ko 자동 번역은 성공**했고 위 두 화면을 촬영했습니다. 다만 `translation-probe` 전체는 **실패**입니다. 새 격리 프로필의 ko→en 검색 모델 생성이 거부되어 세 한글 검색은 실패했습니다. 이 결과를 숨기지 않고 [실행 기록](docs/evidence/translation-browser.json)에 보존했습니다. 영어 성분 검색은 사용할 수 있습니다.
 
 - `npm test`: fixture 기반 식별/요청 테스트.
 - `node tests/browser.js`: Chrome 브라우저 모의 API/모의 번역 adversarial 테스트.

diff --git a/docs/verification.md b/docs/verification.md
@@ -1,5 +1,15 @@
 # 실행 검증
 
+## 최신 후속 수정 (2026-11-18 UTC+09:00)
+
+이 절이 아래 과거 실행 기록보다 최신입니다. 이번 변경은 본문 폭/행간·선택 카드·초점 이동·경고 우선 배치, 실패 원문 자동 펼침, 빈 번역 거부입니다. CID–UNII 식별 검증과 하단 출처 접기는 유지했습니다.
+
+- `npm test`: 30/30. `tests/browser.js`: 8, `tests/auto-browser.js`: 6, `tests/image-browser.js`: 5 시나리오 통과.
+- auto-browser는 모의 모델로 pending 공유, 클릭 activation, 진행 중 제품 전환, 다운로드 실패/재시도, 본문 번역 실패를 검증했습니다.
+- `tools/translation-probe.js`: 전체 실패. 최초 실행과 재실행 모두 ko→en 모델 생성 거부를 관찰했습니다. 재실행은 검색 실패와 별도로 실제 aspirin 제품에서 en→ko 자동 번역 완료를 확인했습니다. 오류를 성공 처리하지 않습니다.
+- 실제 모델/실제 API의 최신 화면: [1280px](evidence/readability-desktop.png), [390px](evidence/readability-mobile.png). 좁은 화면의 가로 넘침 검사 통과. 번역문에 의학적 의미 왜곡이 있어 정확성 보장은 불가합니다.
+- 공식 URL 3개 재조회: e약은요 공개 4,730건/엑셀다운로드 표시, 공공데이터포털 무료이나 ServiceKey 필수, 자료실 응답에는 목록만 노출. XLSX 임상 본문·키 없는 자동 연동은 검증하지 못했습니다. 웹 열람권과 API 데이터 이용허락을 구분합니다.
+
 ## 승인·환경
 
[1 lines of base64/hex data omitted]
